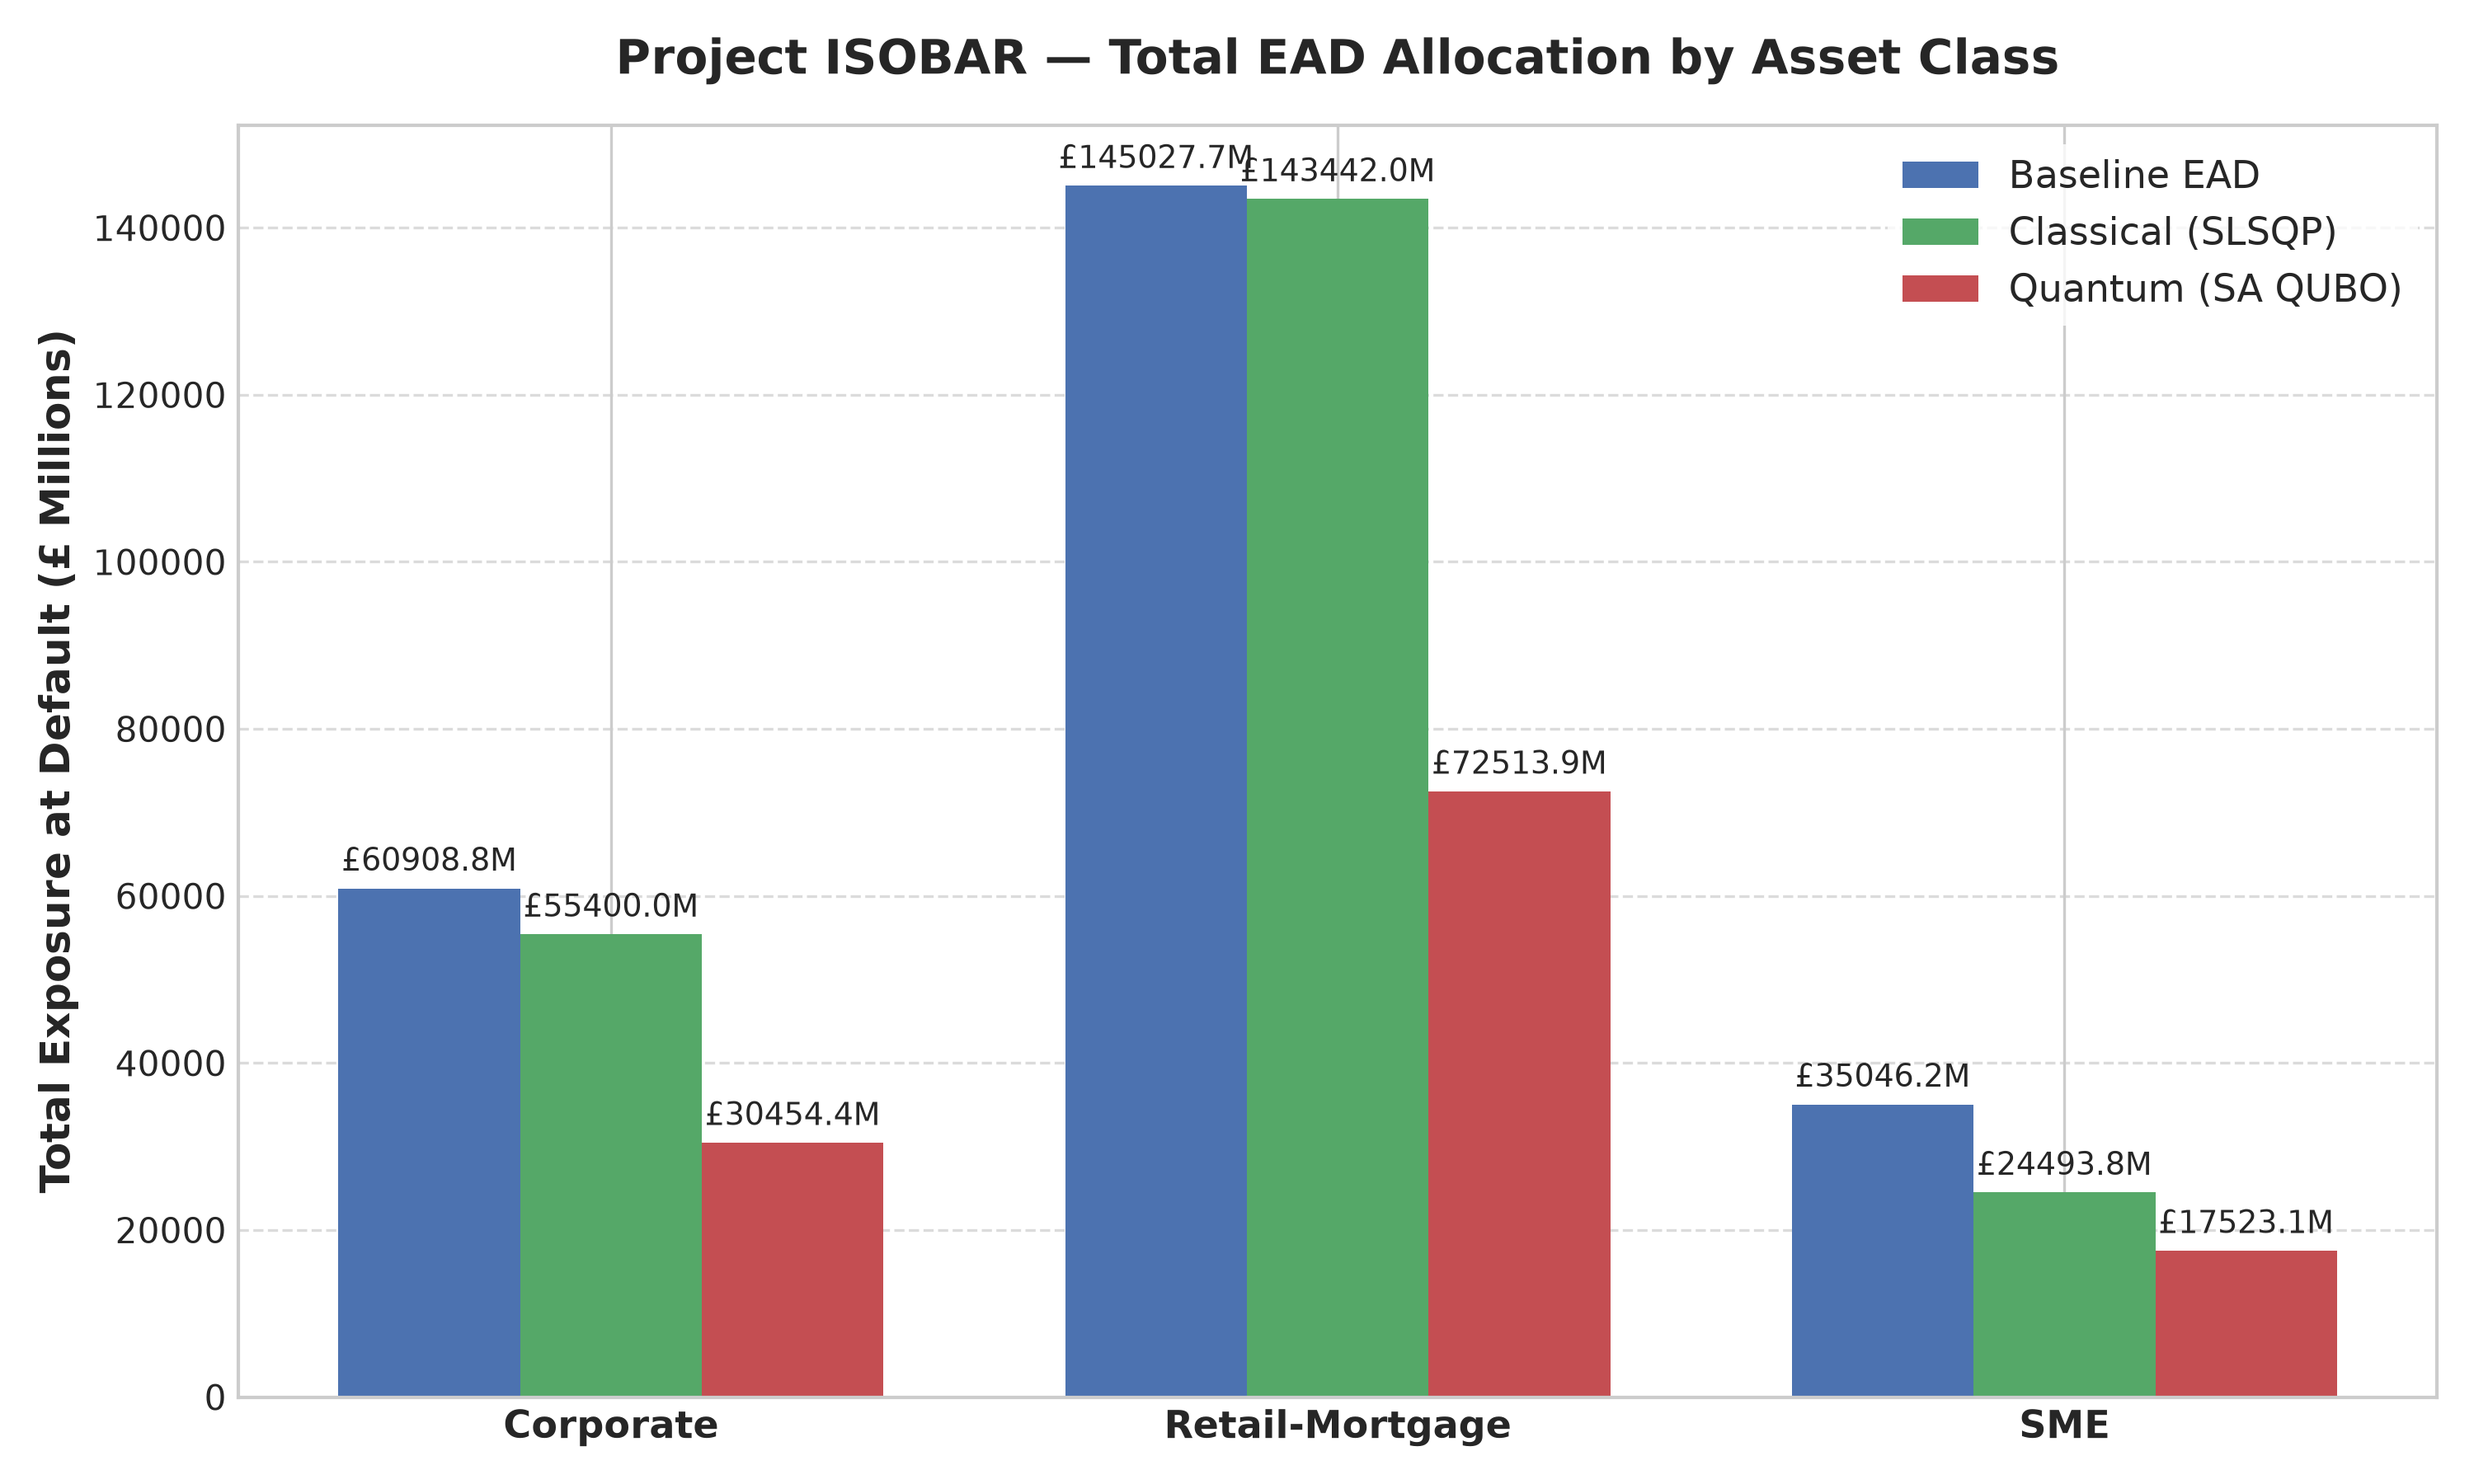
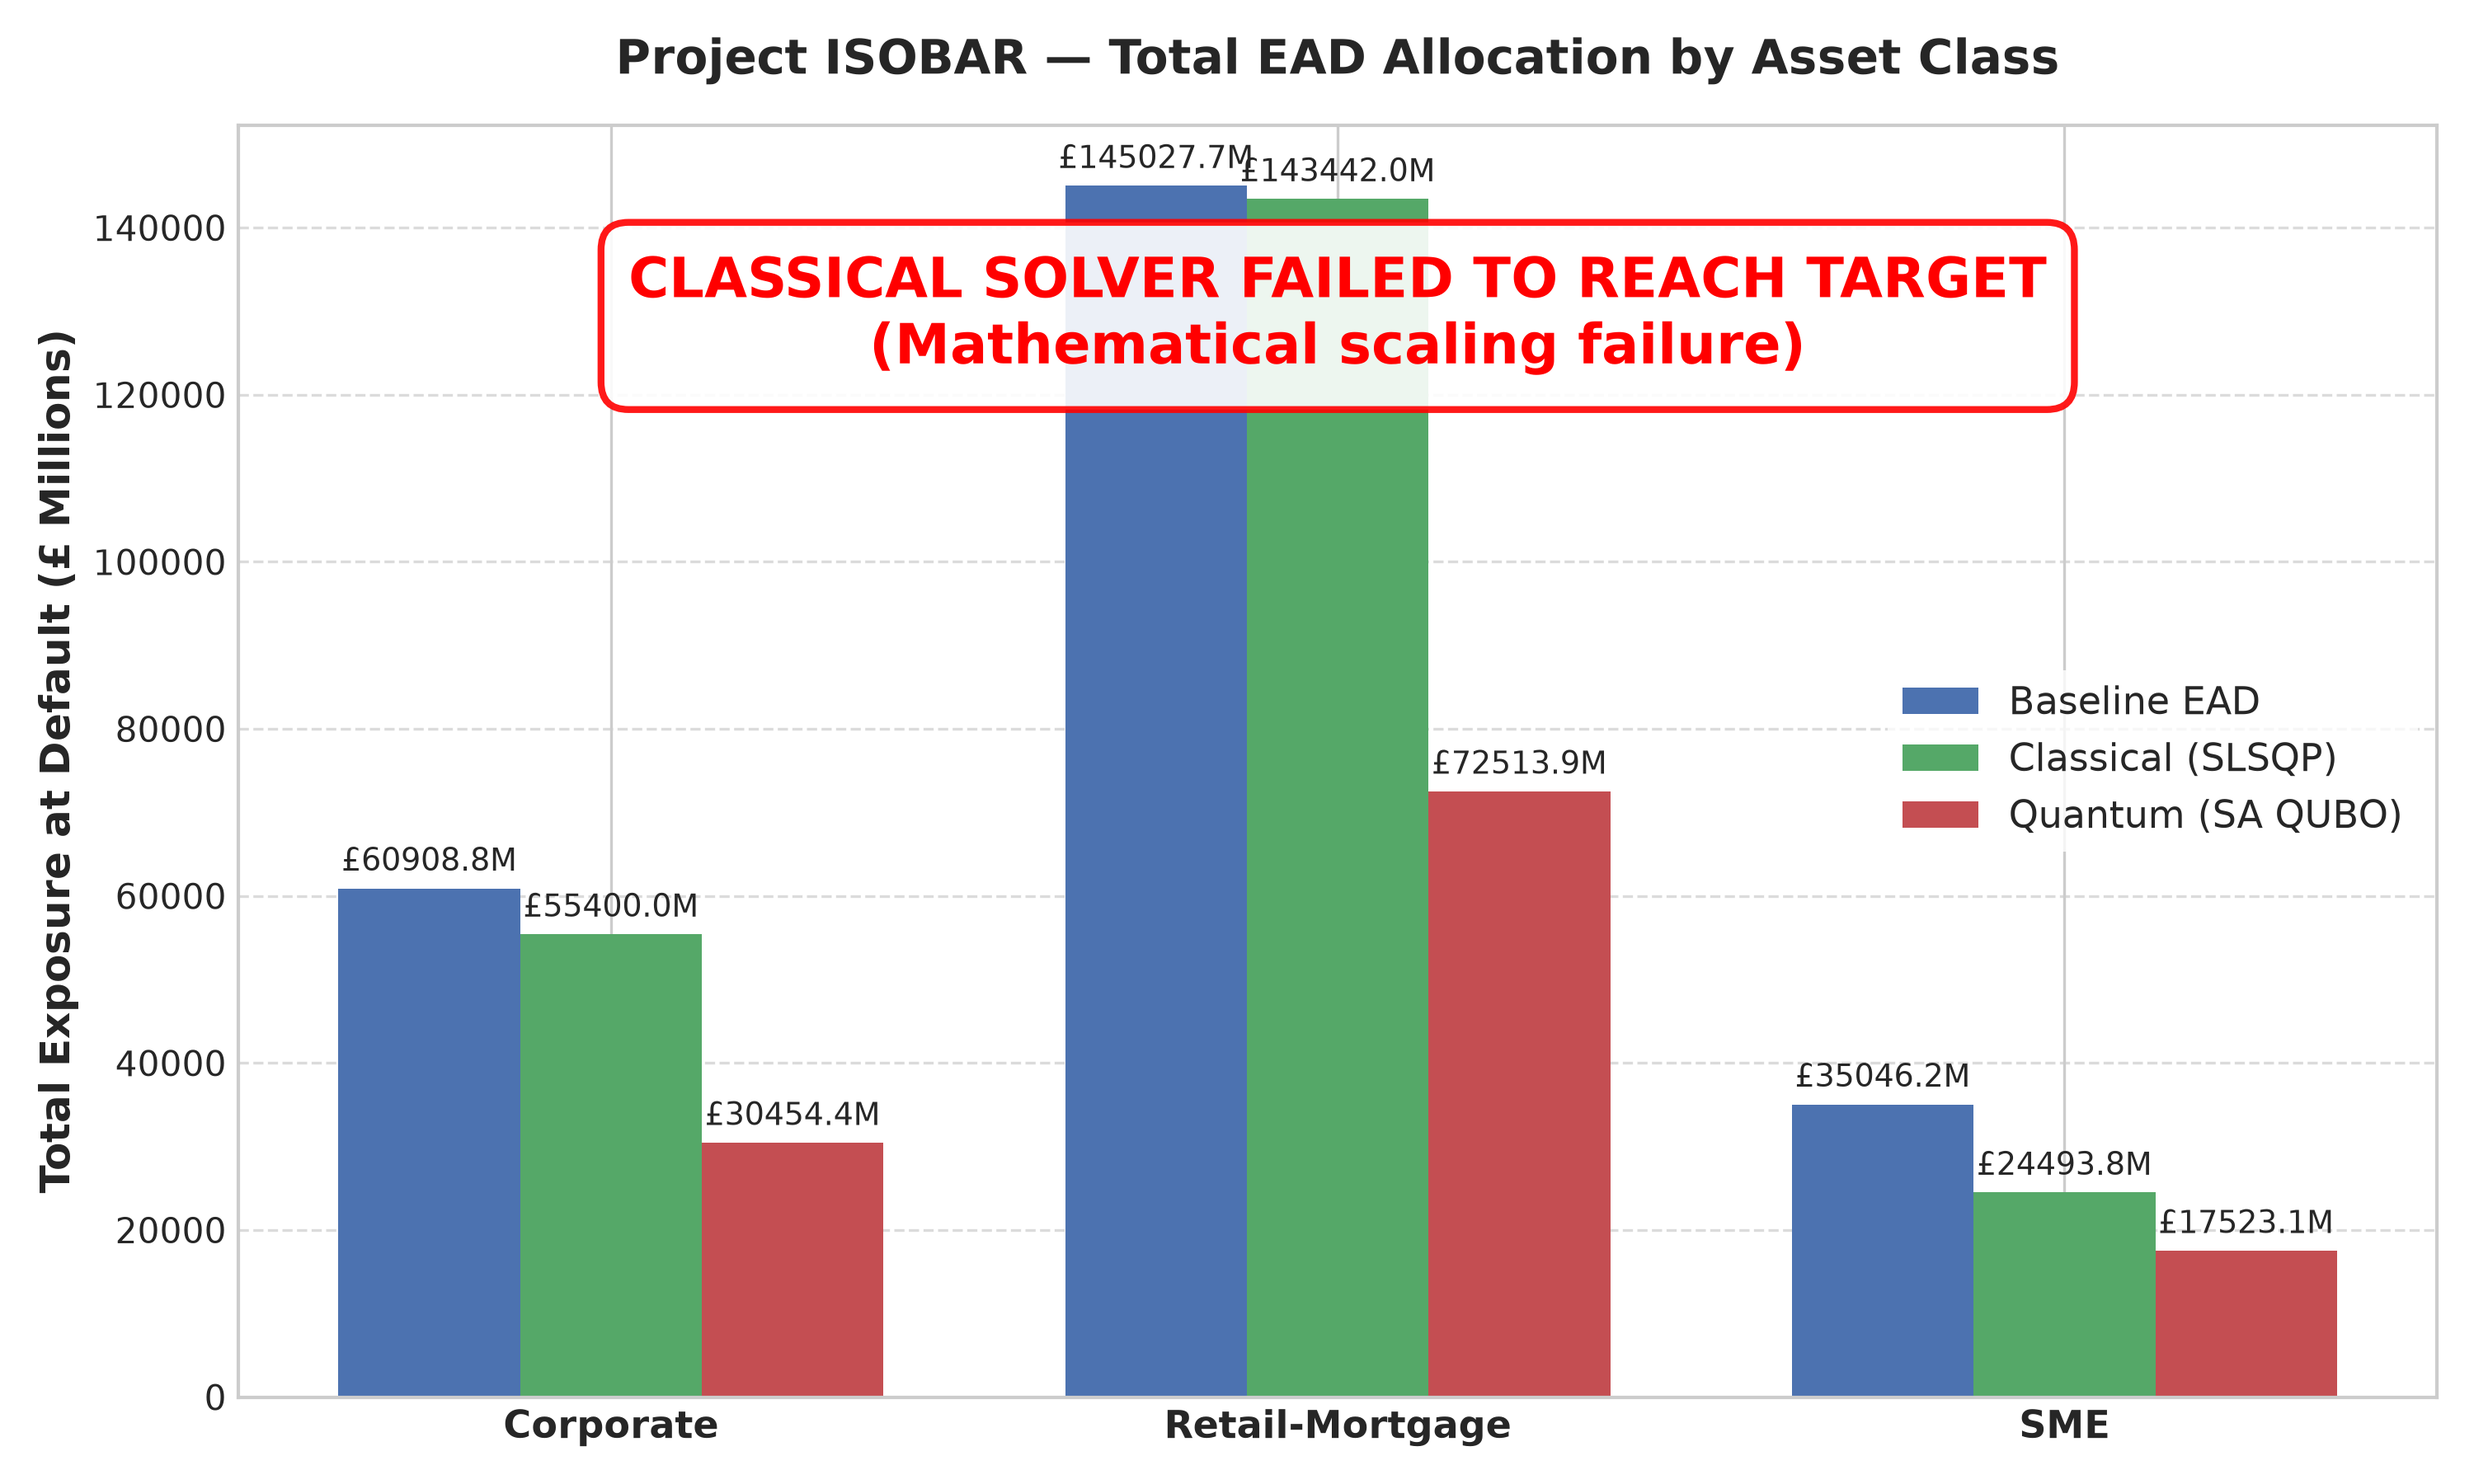
Add failure label to classical solver plot

Changed region(s): [[0.217, 0.0933, 0.961, 0.28], [0.744, 0.4667, 0.961, 0.56]]

diff --git a/notebooks/isobar_orchestrator.py b/notebooks/isobar_orchestrator.py
@@ -312,6 +312,13 @@ def generate_visualisations(
                 fontsize=9,
             )
 
+    # Add failure warning if Classical solver missed target massively (>5% delta)
+    if classical_res.get("rwa_delta_pct", 0.0) > 5.0:
+        ax.text(0.5, 0.85, "CLASSICAL SOLVER FAILED TO REACH TARGET\n(Mathematical scaling failure)", 
+                transform=ax.transAxes, ha="center", va="center", 
+                fontsize=16, fontweight="bold", color="red",
+                bbox=dict(facecolor='white', alpha=0.9, edgecolor='red', boxstyle='round,pad=0.5', linewidth=2))
+
     plt.tight_layout()
     bar_chart_path = results_dir / "ead_comparison_by_asset_class.png"
     plt.savefig(bar_chart_path, dpi=300)
